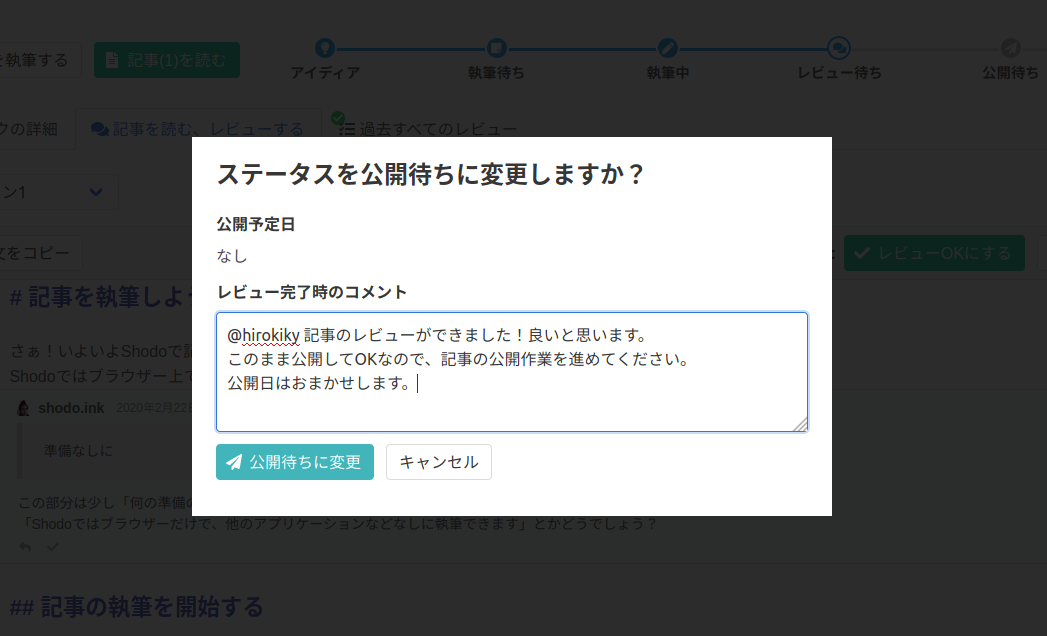
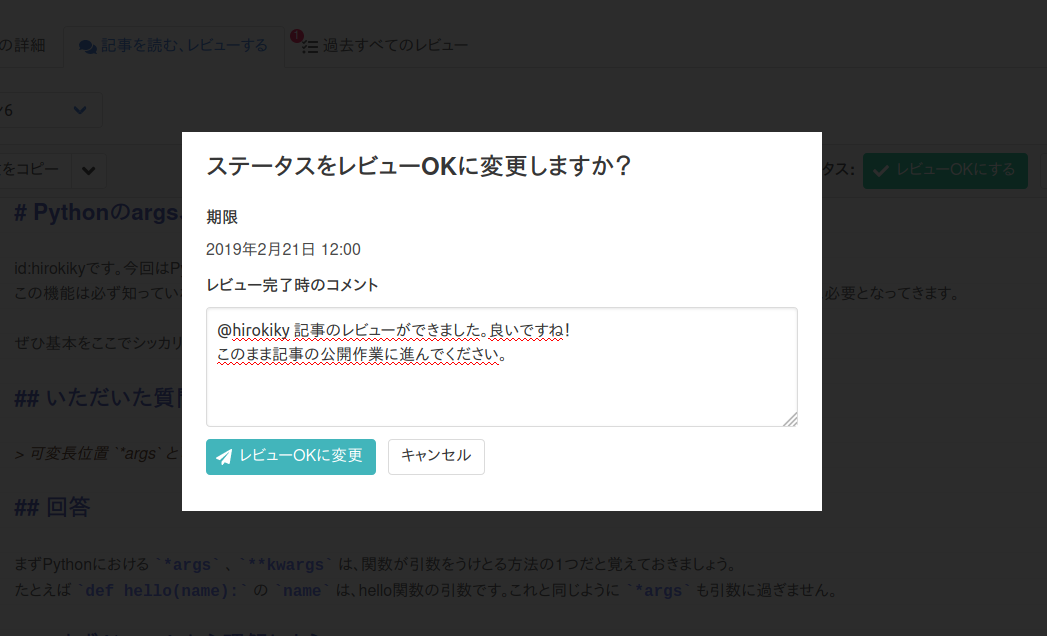
Publish schedule to Due date.

diff --git a/docs/searchindex.js b/docs/searchindex.js
@@ -1,1 +1,1 @@
-Search.setIndex({docnames:["getting-started/create-a-task","getting-started/index","getting-started/make-it-done","getting-started/manage-status","getting-started/review-a-post","getting-started/rewrite-post","getting-started/write-a-post","index"],envversion:{"sphinx.domains.c":1,"sphinx.domains.changeset":1,"sphinx.domains.citation":1,"sphinx.domains.cpp":1,"sphinx.domains.javascript":1,"sphinx.domains.math":2,"sphinx.domains.python":1,"sphinx.domains.rst":1,"sphinx.domains.std":1,sphinx:56},filenames:["getting-started/create-a-task.md","getting-started/index.rst","getting-started/make-it-done.md","getting-started/manage-status.md","getting-started/review-a-post.md","getting-started/rewrite-post.md","getting-started/write-a-post.md","index.rst"],objects:{},objnames:{},objtypes:{},terms:{"(\"":6,"**":6,"\")":6,"\u3001\u300c":[0,4,6],"\u300c\u304a\u4f1a\u3044":0,"\u300c\u3053\u306e":6,"\u300c\u3069":4,"\u300c\u307e\u3060":6,"\u300c\u3088\u3057":6,"\u300c\u30a4\u30d9\u30f3\u30c8":0,"\u300c\u4f55":0,"\u300d\u300c":4,"\u3042\u3048":3,"\u3042\u3052\u308b":4,"\u3042\u3068":[0,2,3,4,5],"\u3042\u308a":[2,3,4,5,6],"\u3042\u308b":[0,1,2,4,5,6],"\u3042\u308c":0,"\u3042\u308d":4,"\u3044\u304b":0,"\u3044\u304d":[0,5],"\u3044\u304f":6,"\u3044\u3056":0,"\u3044\u3088\u3044":6,"\u3044\u308b":[3,4,5,6],"\u3044\u308c":3,"\u304a\u304d\u307e\u3057\u3087":[2,4,5,6],"\u304a\u304f":[0,4],"\u304a\u3051\u308b":0,"\u304a\u4f1d\u3048":4,"\u304a\u75b2\u308c":2,"\u304a\u77e5\u3089":[0,6],"\u304a\u77e5\u3089\u305b":0,"\u304b\u304c":4,"\u304b\u3069":6,"\u304b\u3082":0,"\u304b\u3089":[0,2,3,4,5,6],"\u304c\u3061":[0,4],"\u304c\u308a":0,"\u304f\u3060":[0,2,3,4,5,6],"\u304f\u3066":5,"\u304f\u308c":5,"\u304f\u308c\u308b":3,"\u3051\u3069":6,"\u3053\u3046":3,"\u3053\u3053":[4,5,6],"\u3053\u3068":[0,2,3,4,5,6],"\u3053\u306e":[0,3,4,5],"\u3053\u308c":[2,3,5,6],"\u3053\u3093":[0,6],"\u3053\u3093\u306a":0,"\u3055\u3041":0,"\u3055\u3044":[0,2,3,4,5,6],"\u3055\u3063\u305d\u304f":0,"\u3055\u3089\u306b":5,"\u3055\u3093":[0,4],"\u3057\u3063\u304b\u308a":0,"\u3057\u3064\u3064":[5,6],"\u3057\u3066":[0,3,4,5],"\u3057\u306a\u304f":0,"\u3057\u307e\u3044":[0,4],"\u3057\u307e\u3046":[0,3],"\u3057\u307e\u3057\u3087":[2,3,4,5,6],"\u3057\u307e\u3063":0,"\u3057\u3084\u3059\u3044":2,"\u3057\u3088":4,"\u3057\u3088\u3046":[1,7],"\u3057\u308c":0,"\u3058\u3063\u304f\u308a":4,"\u3059\u3050":0,"\u3059\u3079":1,"\u3059\u3079\u3066":5,"\u3059\u308b":[0,1,3,7],"\u3059\u308c":[2,4],"\u305b\u305a":5,"\u305b\u308b":4,"\u305c\u3072":2,"\u305c\u3072\u304a\u697d\u3057\u307f":0,"\u305d\u3046":4,"\u305d\u3053\u304b\u3089":6,"\u305d\u306e":[2,4,5],"\u305d\u306e\u307e\u307e":6,"\u305d\u308c":[0,3],"\u305d\u308c\u305e\u308c":[0,6],"\u305f\u3044":[0,1,4,5,6],"\u305f\u3044\u304b":0,"\u305f\u304f":[4,6],"\u305f\u3051\u3069":3,"\u305f\u307b\u3046":4,"\u305f\u3081":[0,2],"\u305f\u3089":[1,2,3,4,5],"\u305f\u308a":[0,4],"\u3060\u3051":[0,4],"\u3060\u3055\u3044":[0,2,5],"\u3060\u308d":0,"\u3061\u3087\u3063\u3068":0,"\u3064\u3044":[2,3],"\u3067\u304d":[2,3,4,5,6],"\u3067\u304d\u308b":[0,3,4],"\u3067\u304d\u308c":[4,5],"\u3067\u3057":2,"\u3067\u3057\u3087":[0,2,3,4,6],"\u3067\u3059":[0,2,3,4,5,6],"\u3067\u3082":6,"\u3068\u3044\u3046":[0,3,4,6],"\u3068\u3044\u3063":[0,4],"\u3068\u3048":[0,4,5],"\u3068\u3048\u3070":0,"\u3068\u304d":[0,1,2,4,5,6],"\u3068\u304f":[0,5],"\u3068\u3057":3,"\u3068\u3057\u3066":[0,2,3,4,6],"\u3068\u3057\u307e\u3057\u3087":4,"\u3068\u3066":4,"\u3068\u3088\u308a":4,"\u3068\u308a":[3,4],"\u3069\u3046":[1,4],"\u3069\u3046\u3044\u3046":4,"\u3069\u3053":4,"\u3069\u308c\u304f\u3089\u3044":4,"\u3069\u3093\u306a":0,"\u306a\u3044":[0,1,3,4,6],"\u306a\u304f":[0,3,4],"\u306a\u3051\u308c":2,"\u306a\u3057":[4,6],"\u306a\u305c":[1,3,6],"\u306a\u305d\u3046":4,"\u306a\u3063":[0,1,2,3],"\u306a\u3068":0,"\u306a\u3069":[0,2,3,4,5,6],"\u306a\u306b":4,"\u306a\u308a":[0,3,4,6],"\u306a\u308b":[0,2,3,4,5],"\u306a\u3093":6,"\u306b\u304f\u3044":4,"\u306b\u304f\u304f":0,"\u306b\u3061":[0,6],"\u306b\u3064\u3044\u3066":[0,3,4,5],"\u306b\u3088\u3063":4,"\u306b\u5bfe\u3057":4,"\u306e\u3044\u308d\u3044\u308d":6,"\u306e\u3067":[0,2,3,5,6],"\u306e\u3067\u3057\u3087":[0,3],"\u306f\u3058\u3081\u3066":6,"\u306f\u3066":6,"\u3079\u304d":[0,3,4,5],"\u3079\u304f":2,"\u307b\u3046":[2,4],"\u307b\u3057\u3044":[0,3,4],"\u307b\u3057\u3044\u304b":4,"\u307c\u3093":4,"\u307e\u3057":2,"\u307e\u3057\u3087":[0,4,5],"\u307e\u3059":[0,2,3,4,5,6],"\u307e\u305a":[0,3,5,6],"\u307e\u305b":[0,2,3,4,5,6],"\u307e\u3060":[0,3,6],"\u307e\u3067":0,"\u307e\u3068\u3081":[0,6],"\u307e\u3068\u3081\u308b":0,"\u307e\u307e":[2,5],"\u307e\u307e\u3067":6,"\u3082\u3057":[2,3],"\u3082\u3057\u5358":0,"\u3082\u3068":[1,7],"\u3082\u3069\u3063":2,"\u3082\u306e":[0,4],"\u3082\u3089\u3044":5,"\u3082\u3089\u3044\u307e\u3057\u3087":5,"\u3082\u3089\u3046":0,"\u3082\u3089\u3063":[3,5],"\u3084\u3059\u3044":[4,6],"\u3084\u3059\u304f":4,"\u3084\u306f\u308a":2,"\u3084\u308a":[2,4],"\u3086\u308c":6,"\u3088\u3044":[],"\u3088\u3046":[0,4,7],"\u3088\u308a":[3,4],"\u3089\u3057\u3044":4,"\u3089\u308c":[0,4,5,6],"\u308c\u308b":[0,4,5],"\u308f\u304b\u308a":4,"\u3092\u901a\u3057":4,"\u30a2\u30a4\u30b3\u30f3":[4,5],"\u30a2\u30a4\u30c7\u30a3\u30a2":[0,3],"\u30a2\u30ab\u30a6\u30f3\u30c8":4,"\u30a2\u30af\u30b7\u30e7\u30f3":[0,4,6],"\u30a2\u30b5\u30a4\u30f3":[0,3,4],"\u30a2\u30c3\u30d7\u30ed\u30fc\u30c9":6,"\u30a2\u30d7\u30ea":0,"\u30a2\u30d7\u30ea\u30b1\u30fc\u30b7\u30e7\u30f3":4,"\u30a4\u30d9\u30f3\u30c8":0,"\u30a4\u30e1\u30fc\u30b8":4,"\u30a8\u30c7\u30a3\u30bf\u30fc":[5,6],"\u30aa\u30a6\u30f3\u30c9\u30e1\u30c7\u30a3\u30a2":2,"\u30aa\u30b9\u30b9\u30e1":[0,2,5,6],"\u30ab\u30fc\u30bd\u30eb":4,"\u30ac\u30a4\u30c9\u30e9\u30a4\u30f3":3,"\u30ad\u30c1\u30f3":4,"\u30ad\u30e3\u30c3\u30c1\u30fc":0,"\u30af\u30ea\u30c3\u30af":[0,2,3,4,5,6],"\u30b3\u30d4\u30fc":[1,4],"\u30b3\u30e1\u30f3\u30c8":[0,4,5],"\u30b3\u30f3\u30c6\u30f3\u30c4\u30de\u30fc\u30b1\u30c6\u30a3\u30f3\u30b0":0,"\u30b3\u30fc\u30c7\u30a3\u30f3\u30b0":2,"\u30b3\u30fc\u30c9":6,"\u30b5\u30a4\u30c9\u30d0\u30fc":[0,1,5],"\u30b5\u30b8\u30a7\u30b9\u30c8":3,"\u30b5\u30fc\u30d3\u30b9":[0,2],"\u30b7\u30f3\u30bf\u30c3\u30af\u30b9":6,"\u30b9\u30af\u30ed\u30fc\u30eb":5,"\u30b9\u30c6\u30fc\u30bf\u30b9":[0,1,2,4,5,6,7],"\u30b9\u30e0\u30fc\u30ba":4,"\u30bf\u30a4\u30c8\u30eb":0,"\u30bf\u30b9\u30af":[1,3,4,5,6,7],"\u30bf\u30d6":4,"\u30bf\u30fc\u30b2\u30c3\u30c8":0,"\u30c0\u30c3\u30b7\u30e5\u30dc\u30fc\u30c9":[0,6],"\u30c1\u30a7\u30c3\u30af":4,"\u30c1\u30a7\u30c3\u30af\u30a2\u30a4\u30b3\u30f3":5,"\u30c1\u30fc\u30e0\u30e1\u30f3\u30d0\u30fc":6,"\u30c4\u30fc\u30eb\u30d0\u30fc":6,"\u30c7\u30b6\u30a4\u30f3":2,"\u30c8\u30e9\u30d6\u30eb":3,"\u30cf\u30a4\u30e9\u30a4\u30c8":5,"\u30d0\u30fc\u30b8\u30e7\u30f3":[0,5,6],"\u30d1\u30e9\u30b0\u30e9\u30d5":2,"\u30d5\u30a3\u30fc\u30c9\u30d0\u30c3\u30af":4,"\u30d5\u30a9\u30eb\u30c0\u30fc":0,"\u30d5\u30a9\u30ed\u30fc":0,"\u30d5\u30a9\u30fc\u30de\u30c3\u30c8":1,"\u30d5\u30ed\u30fc":3,"\u30d6\u30e9\u30a6\u30b6\u30fc":[4,6],"\u30d6\u30e9\u30b7\u30e5\u30a2\u30c3\u30d7":5,"\u30d6\u30ec":0,"\u30d6\u30ed\u30b0":[0,2,6],"\u30d6\u30ed\u30b0\u30b5\u30fc\u30d3\u30b9":[2,3],"\u30d7\u30e9\u30b0\u30a4\u30f3":6,"\u30d7\u30e9\u30c3\u30c8\u30d5\u30a9\u30fc\u30e0":[2,3],"\u30d7\u30ec\u30fc\u30f3\u30c6\u30ad\u30b9\u30c8":6,"\u30d7\u30ed\u30b8\u30a7\u30af\u30c8":0,"\u30da\u30fc\u30b8":[0,2,6],"\u30da\u30fc\u30b9\u30c8":[2,4],"\u30dc\u30bf\u30f3":[3,4,5,6],"\u30dd\u30a4\u30f3\u30c8":[0,1],"\u30de\u30fc\u30b1\u30bf\u30fc":0,"\u30e6\u30fc\u30b6\u30fc":0,"\u30ea\u30b9\u30c8":6,"\u30ea\u30ea\u30fc\u30b9":6,"\u30eb\u30fc\u30eb":6,"\u30ec\u30d3\u30e5\u30a2\u30fc":[0,3,4,5,6],"\u30ec\u30d3\u30e5\u30fc":[0,1,2,6,7],"\u30ec\u30d3\u30e5\u30fc\u30b3\u30e1\u30f3\u30c8":[1,3],"\u30ec\u30d3\u30e5\u30fc\u30b9\u30c6\u30fc\u30bf\u30b9":0,"\u30ec\u30d3\u30e5\u30fc\u30ec\u30d3\u30e5\u30a2\u30fc":6,"\u30ec\u30d3\u30e5\u30fcok":[3,4],"\u30ef\u30af\u30ef\u30af":[0,4],"\u30ef\u30f3\u30dd\u30a4\u30f3\u30c8":4,"\u30ef\u30fc\u30af\u30d5\u30ed\u30fc":1,"\u30fbmarkdown":6,"\u4e00\u4eba":4,"\u4e00\u65e6":[3,6],"\u4e00\u756a":4,"\u4e00\u89a7":[5,6],"\u4e0a\u8a18":5,"\u4e0a\u90e8":6,"\u4e0b\u90e8":5,"\u4e0d\u8981":4,"\u4e16\u754c":2,"\u4e21\u65b9":1,"\u4e2d\u592e":6,"\u4e2d\u8a18":3,"\u4e88\u5b9a":[0,4],"\u4e88\u7d04":3,"\u4e8b\u524d":0,"\u4e8b\u52d9":0,"\u4eca\u5f8c":[0,4],"\u4ed5\u4e0a":0,"\u4ed5\u4e8b":[0,3],"\u4ee5\u4e0b":[0,3,4,5,6],"\u4ee5\u5916":3,"\u4f11\u61a9":6,"\u4f1d\u3048":[0,4,6],"\u4f1d\u3048\u308b":1,"\u4f1d\u308f\u3089":4,"\u4f1d\u308f\u308a":4,"\u4f1d\u308f\u308b":4,"\u4f4d\u7f6e":5,"\u4f55\u304b":0,"\u4f59\u8a08":3,"\u4f5c\u3063":2,"\u4f5c\u308a":[0,4],"\u4f5c\u308a\u4e0a\u3052":4,"\u4f5c\u308a\u65b9":1,"\u4f5c\u308b":[1,3],"\u4f5c\u308d":[1,7],"\u4f5c\u54c1":4,"\u4f5c\u6210":[0,3,5,6],"\u4f5c\u696d":[2,3,4,6],"\u4f7f\u3048":6,"\u4f7f\u3048\u308b":1,"\u4f7f\u308f\u305a":4,"\u4f9d\u983c":[0,1,3,4,6],"\u4fbf\u5229":[2,5],"\u4fdd\u5b58":6,"\u4fee\u6b63":[1,3,4,7],"\u5148\u9032":0,"\u5165\u308b":2,"\u5165\u529b":[0,4,6],"\u5168\u4f53":4,"\u516c\u958b":[0,1,4,5,7],"\u516c\u958b\u5f85\u3061":4,"\u5171\u6709":[4,6],"\u5177\u4f53":[1,3],"\u5185\u5bb9":[0,2,4,5,6],"\u518d\u5ea6":[4,5],"\u5206\u304b\u3063":0,"\u5206\u3051":3,"\u5206\u6790":6,"\u5229\u7528":[2,6],"\u5247\u3063":3,"\u52b9\u679c":0,"\u52d5\u304b\u3059":4,"\u5358\u7d14":5,"\u5358\u8a9e":6,"\u5370\u8c61":4,"\u5374\u4e0b":3,"\u539f\u7a3f":2,"\u53d6\u3063":[0,4],"\u53d6\u3089\u308c":3,"\u53d6\u308a":4,"\u53f3\u4e0a":[4,5,6],"\u5404\u884c":4,"\u5404\u914d":2,"\u5408\u308f":4,"\u544a\u77e5":0,"\u5546\u54c1":4,"\u554f\u984c":[0,3,4,5],"\u57f7\u7b46":[1,4,5,7],"\u57f7\u7b46\u4e2d":4,"\u57fa\u672c":3,"\u5834\u5408":[0,1,2,3,6],"\u5909\u3048":[5,6],"\u5909\u308f\u3063":0,"\u5909\u63db":6,"\u5909\u66f4":[2,3,4,5,6],"\u591a\u3044":2,"\u5927\u304d":2,"\u5927\u304d\u304f":0,"\u5927\u304d\u306a":2,"\u5927\u307e\u304b":0,"\u5927\u5207":4,"\u592a\u5b57":6,"\u59cb\u3081":[0,7],"\u59cb\u3081\u308b":0,"\u59ff\u52e2":4,"\u5b58\u5728":0,"\u5b8c\u4e86":[1,3,5,7],"\u5b8c\u6210":[0,2,6],"\u5b9f\u969b":[3,4],"\u5bfe\u5fdc":[1,6],"\u5bfe\u8c61":[1,5],"\u5c0e\u5165":6,"\u5c11\u3005":4,"\u5c11\u3057":2,"\u5c11\u306a\u3044":2,"\u5dee\u3057\u623b\u3059":[1,3],"\u5f0a\u793e":0,"\u5f15\u7528":6,"\u5f53\u65e5":0,"\u5f53\u8a72":3,"\u5f62\u5f0f":[2,4,6],"\u5f79\u5272":0,"\u5f85\u3061":[0,3,4,5],"\u5f85\u3063":[0,3],"\u5f8c\u307b\u3069":4,"\u5f8c\u8ff0":[0,5],"\u5fc5\u8981":[2,4,5,6],"\u5fd8\u308c":4,"\u601d\u3044":[3,4],"\u601d\u3044\u3064\u3044":3,"\u601d\u3046":4,"\u601d\u3063":0,"\u601d\u308f":0,"\u60a9\u3093":0,"\u60aa\u3044\u70b9":1,"\u60aa\u3044\u70b9\u3070\u304b\u308a":4,"\u60c5\u5831":0,"\u60f3\u5b9a":0,"\u610f\u5473":[0,3,5],"\u610f\u898b":5,"\u611f\u3058":4,"\u611f\u3058\u308b":4,"\u623b\u3059":4,"\u624b\u52d5":[3,5],"\u624b\u623b\u308a":2,"\u6295\u7a3f":[3,5],"\u62c5\u5f53\u8005":0,"\u62db\u304d":4,"\u6301\u3063":4,"\u6307\u6458":1,"\u6349\u3048":5,"\u63b4\u3081":4,"\u63d0\u6848":4,"\u6539\u5584":[4,5],"\u6587\u5b57":6,"\u6587\u7ae0":[0,2,4,5,6],"\u6587\u8a00":2,"\u659c\u3081":6,"\u65b0\u3057\u3044":[0,5],"\u65b0\u898f\u30bf\u30b9\u30af":0,"\u65b9\u6cd5":[4,5,6],"\u65e5\u6642":0,"\u660e\u793a":4,"\u6642\u9593":[0,3,4,6],"\u66f8\u3044":[0,2,3,4,6],"\u66f8\u304b":[0,3],"\u66f8\u304b\u305a":0,"\u66f8\u304d":[0,1,4,6],"\u66f8\u304d\u4e0a\u304c\u3063":4,"\u66f8\u304d\u76f4\u3057":4,"\u66f8\u304d\u7d42\u308f\u3063":4,"\u66f8\u304f":[0,1,2,3,6],"\u66f8\u3051":[0,1,4],"\u66f8\u3051\u308b":[0,4],"\u66f8\u3053\u3046":0,"\u6700\u3082":0,"\u6700\u65b0":4,"\u6700\u7d42":[2,4],"\u6709\u52b9":6,"\u672a\u89e3":5,"\u672c\u5f53":4,"\u672c\u6587":[1,5],"\u6821\u6b63":[2,4,6],"\u697d\u3057\u304f":0,"\u697d\u3057\u307f":0,"\u6a5f\u80fd":6,"\u6b32\u3057\u3044":0,"\u6b8b\u3057":[4,5],"\u6b8b\u3057\u3064\u3064":4,"\u6b8b\u3059":1,"\u6b8b\u305b":4,"\u6b8b\u3063":5,"\u6bb5\u968e":[2,4,6],"\u6bd4\u7387":6,"\u6c17\u3065\u3051":[4,5],"\u6c17\u4ed8\u3051\u308b":5,"\u6c17\u517c":3,"\u6c17\u6301\u3061":1,"\u6c42\u3081\u308b":[4,6],"\u6c7a\u307e\u3063":3,"\u6c7a\u307e\u308c":3,"\u6c7a\u5b9a":0,"\u6ce8\u529b":[2,4],"\u6de1\u767d":0,"\u6df7\u4e71":4,"\u6e1b\u3089":4,"\u6e29\u5ea6":0,"\u6e96\u5099":[4,6],"\u7121\u99c4":[0,2],"\u7169\u96d1":3,"\u7279\u306b":3,"\u7279\u5316":6,"\u7279\u5fb4":6,"\u72b6\u614b":[0,3,5,6],"\u73fe\u5728":6,"\u753b\u50cf":6,"\u753b\u9762":[0,2,3,4,5,6],"\u76f4\u3057":2,"\u76f4\u305b":4,"\u76f8\u624b":4,"\u77e2\u5370":5,"\u77e5\u3063":0,"\u78ba\u8a8d":[4,5,6],"\u79fb\u3057":3,"\u7a4d\u6975":4,"\u7b2c\u4e00\u6b69":0,"\u7ba1\u7406":[0,1,7],"\u7bc4\u56f2":1,"\u7c21\u5358":3,"\u7d0d\u5f97":[4,5],"\u7d20\u6674":4,"\u7d42\u308f":0,"\u7d42\u308f\u3063":[1,6],"\u7d42\u4e86":2,"\u7d50\u679c":6,"\u7d5e\u3089":4,"\u8003\u3048\u308b":0,"\u805e\u304f":6,"\u80cc\u666f":6,"\u81a8\u3089":6,"\u81ea\u52d5":[5,6],"\u826f\u3044":[0,2,3,4,6],"\u826f\u3044\u4f8b":4,"\u826f\u3044\u70b9":1,"\u826f\u304b\u3063":4,"\u826f\u304f":4,"\u884c\u3044":0,"\u884c\u3048":0,"\u884c\u304d":[0,4],"\u884c\u3063":2,"\u8868\u73fe":4,"\u8868\u793a":[0,4,5,6],"\u8868\u8a18":6,"\u8981\u7d20":[0,6],"\u898b\u3064\u3051":4,"\u898b\u3064\u3051\u3088":4,"\u898b\u3084\u3059\u304f":5,"\u898b\u3089\u308c":6,"\u898b\u3089\u308c\u308b":4,"\u898b\u308b":5,"\u898b\u51fa":6,"\u898b\u51fa\u3057":6,"\u89aa\u5207":4,"\u89b3\u70b9":4,"\u89e3\u6c7a":1,"\u8a00\u3044":4,"\u8a00\u8449":0,"\u8a18\u4e8b":[0,1,7],"\u8a18\u5165":5,"\u8a18\u6cd5":6,"\u8a18\u9332":5,"\u8a2d\u5b9a":6,"\u8a66\u3057":6,"\u8a70\u3081":2,"\u8a72\u5f53\u884c":5,"\u8a73\u3057\u304f":[0,3],"\u8a73\u7d30":[2,3,6],"\u8aa4\u5b57":4,"\u8aac\u660e":[0,1,3,4,5],"\u8aad\u307e":4,"\u8aad\u307f":6,"\u8aad\u307f\u624b":4,"\u8aad\u3080":[0,1],"\u8aad\u3093":[0,4,5],"\u8aad\u4e86":6,"\u8aad\u8005":[0,1],"\u8abf\u6574":2,"\u8cbc\u308a\u4ed8\u3051":[2,6],"\u8cfc\u5165":4,"\u8cfc\u8aad":0,"\u8fd1\u3044":0,"\u8fd4\u3055":4,"\u8fd4\u4fe1":1,"\u8fd4\u7b54":5,"\u8ffd\u52a0":[0,4],"\u9001\u4fe1":5,"\u9010\u6b21":[2,6],"\u9032\u3080":4,"\u9032\u3081\u308b":3,"\u9032\u3081\u308c":3,"\u904e\u53bb":5,"\u9055\u3046":0,"\u9055\u3063":5,"\u9078\u3073":4,"\u9078\u3076":3,"\u907f\u3051":0,"\u90e8\u5206":[4,6],"\u90fd\u5ea6":2,"\u914d\u4fe1":3,"\u914d\u7f6e":2,"\u958b\u3044":[4,5],"\u958b\u50ac":0,"\u958b\u59cb":1,"\u9593\u9055\u3044":4,"\u95b2\u89a7":[4,5],"\u9632\u3050":0,"\u96c6\u4e2d":3,"\u9762\u5012":4,"\u98db\u3073\u51fa\u3057":2,"\uff01\u300d":0,"\uff01\u3044":[],"\uff1f\u300d":0,"ng\u4f8b":4,hello:6,html:6,markdown:[2,4,6],ok:[1,2,3],print:6,shodo:[0,3,4],twitter:0,web:[2,3],wordpress:[2,3],wordpross:6},titles:["\u57f7\u7b46\u30bf\u30b9\u30af\u3092\u4f5c\u308d\u3046","Shodo\u3067\u59cb\u3081\u3088\u3046","\u8a18\u4e8b\u3092\u516c\u958b\u3057\u3066\u57f7\u7b46\u30bf\u30b9\u30af\u3092\u5b8c\u4e86\u306b\u3057\u3088\u3046","\u30b9\u30c6\u30fc\u30bf\u30b9\u3092\u7ba1\u7406\u3057\u3088\u3046","\u30ec\u30d3\u30e5\u30fc\u3092\u3057\u3088\u3046","\u30ec\u30d3\u30e5\u30fc\u3092\u3082\u3068\u306b\u8a18\u4e8b\u3092\u4fee\u6b63\u3059\u308b","\u8a18\u4e8b\u3092\u57f7\u7b46\u3057\u3088\u3046","Shodo.ink \u30d8\u30eb\u30d7\u30c9\u30ad\u30e5\u30e1\u30f3\u30c8"],titleterms:{".ink":7,"\u3042\u308b":3,"\u3057\u3088\u3046":[2,4],"\u3059\u3079":5,"\u3059\u308b":[2,4,5,6],"\u305f\u3044":3,"\u305f\u3089":6,"\u3068\u304d":3,"\u3069\u3046":6,"\u306a\u3044":5,"\u306a\u305c":0,"\u306a\u3063":[4,5],"\u3082\u3068":5,"\u3088\u3046":[1,3,5,6],"\u30b3\u30d4\u30fc":2,"\u30b5\u30a4\u30c9\u30d0\u30fc":6,"\u30b9\u30c6\u30fc\u30bf\u30b9":3,"\u30bf\u30b9\u30af":[0,2],"\u30d5\u30a9\u30fc\u30de\u30c3\u30c8":6,"\u30d8\u30eb\u30d7\u30c9\u30ad\u30e5\u30e1\u30f3\u30c8":7,"\u30dd\u30a4\u30f3\u30c8":4,"\u30ec\u30d3\u30e5\u30fc":[3,4,5],"\u30ec\u30d3\u30e5\u30fc\u30b3\u30e1\u30f3\u30c8":[4,5],"\u30ef\u30fc\u30af\u30d5\u30ed\u30fc":3,"\u4e21\u65b9":4,"\u4f1d\u3048\u308b":4,"\u4f5c\u308a\u65b9":0,"\u4f5c\u308b":0,"\u4f5c\u308d":0,"\u4f7f\u3048\u308b":6,"\u4f9d\u983c":5,"\u4fee\u6b63":[2,5],"\u516c\u958b":[2,3],"\u5177\u4f53":4,"\u57f7\u7b46":[0,2,3,6],"\u5834\u5408":[4,5],"\u59cb\u3081":1,"\u5b8c\u4e86":2,"\u5bfe\u5fdc":5,"\u5bfe\u8c61":4,"\u5dee\u3057\u623b\u3059":4,"\u60aa\u3044\u70b9":4,"\u6307\u6458":4,"\u66f8\u304d":3,"\u66f8\u304f":4,"\u66f8\u3051":6,"\u672c\u6587":2,"\u6b8b\u3059":4,"\u6c17\u6301\u3061":4,"\u7ba1\u7406":3,"\u7bc4\u56f2":2,"\u7d42\u308f\u3063":[3,4],"\u826f\u3044\u70b9":4,"\u89e3\u6c7a":5,"\u8a18\u4e8b":[2,3,4,5,6],"\u8aac\u660e":6,"\u8aad\u3080":4,"\u8aad\u8005":4,"\u8fd4\u4fe1":5,"\u958b\u59cb":6,ok:4,shodo:[1,2,6,7]}})
+Search.setIndex({docnames:["getting-started/create-a-task","getting-started/index","getting-started/make-it-done","getting-started/manage-status","getting-started/review-a-post","getting-started/rewrite-post","getting-started/write-a-post","index"],envversion:{"sphinx.domains.c":1,"sphinx.domains.changeset":1,"sphinx.domains.citation":1,"sphinx.domains.cpp":1,"sphinx.domains.javascript":1,"sphinx.domains.math":2,"sphinx.domains.python":1,"sphinx.domains.rst":1,"sphinx.domains.std":1,sphinx:56},filenames:["getting-started/create-a-task.md","getting-started/index.rst","getting-started/make-it-done.md","getting-started/manage-status.md","getting-started/review-a-post.md","getting-started/rewrite-post.md","getting-started/write-a-post.md","index.rst"],objects:{},objnames:{},objtypes:{},terms:{"(\"":6,"**":6,"\")":6,"\u3001\u300c":[0,4,6],"\u300c\u304a\u4f1a\u3044":0,"\u300c\u3053\u306e":6,"\u300c\u3069":4,"\u300c\u307e\u3060":6,"\u300c\u3088\u3057":6,"\u300c\u30a4\u30d9\u30f3\u30c8":0,"\u300c\u4f55":0,"\u300d\u300c":4,"\u3042\u3048":3,"\u3042\u3052\u308b":4,"\u3042\u3068":[0,2,3,4,5],"\u3042\u308a":[2,3,4,5,6],"\u3042\u308b":[0,1,2,4,5,6],"\u3042\u308c":0,"\u3042\u308d":4,"\u3044\u304b":0,"\u3044\u304d":[0,5],"\u3044\u304f":6,"\u3044\u3056":0,"\u3044\u3088\u3044":6,"\u3044\u308b":[3,4,5,6],"\u3044\u308c":3,"\u304a\u304d\u307e\u3057\u3087":[2,4,5,6],"\u304a\u304f":[0,4],"\u304a\u3051\u308b":0,"\u304a\u4f1d\u3048":4,"\u304a\u75b2\u308c":2,"\u304a\u77e5\u3089":[0,6],"\u304a\u77e5\u3089\u305b":0,"\u304b\u304c":4,"\u304b\u3069":6,"\u304b\u3082":0,"\u304b\u3089":[0,2,3,4,5,6],"\u304c\u3061":[0,4],"\u304c\u308a":0,"\u304f\u3060":[0,2,3,4,5,6],"\u304f\u3066":5,"\u304f\u308c":5,"\u304f\u308c\u308b":3,"\u3051\u3069":6,"\u3053\u3046":3,"\u3053\u3053":[4,5,6],"\u3053\u3068":[0,2,3,4,5,6],"\u3053\u306e":[0,3,4,5],"\u3053\u308c":[2,3,5,6],"\u3053\u3093":[0,6],"\u3053\u3093\u306a":0,"\u3055\u3041":0,"\u3055\u3044":[0,2,3,4,5,6],"\u3055\u3063\u305d\u304f":0,"\u3055\u3089\u306b":5,"\u3055\u3093":[0,4],"\u3057\u3063\u304b\u308a":0,"\u3057\u3064\u3064":[5,6],"\u3057\u3066":[0,3,4,5],"\u3057\u306a\u304f":0,"\u3057\u307e\u3044":[0,4],"\u3057\u307e\u3046":[0,3],"\u3057\u307e\u3057\u3087":[2,3,4,5,6],"\u3057\u307e\u3063":0,"\u3057\u3084\u3059\u3044":2,"\u3057\u3088":4,"\u3057\u3088\u3046":[1,7],"\u3057\u308c":0,"\u3058\u3063\u304f\u308a":4,"\u3059\u3050":0,"\u3059\u3079":1,"\u3059\u3079\u3066":5,"\u3059\u308b":[0,1,3,7],"\u3059\u308c":[2,4],"\u305b\u305a":5,"\u305b\u308b":4,"\u305c\u3072":2,"\u305c\u3072\u304a\u697d\u3057\u307f":0,"\u305d\u3046":4,"\u305d\u3053\u304b\u3089":6,"\u305d\u306e":[2,4,5],"\u305d\u306e\u307e\u307e":6,"\u305d\u308c":[0,3],"\u305d\u308c\u305e\u308c":[0,6],"\u305f\u3044":[0,1,4,5,6],"\u305f\u3044\u304b":0,"\u305f\u304f":[4,6],"\u305f\u3051\u3069":3,"\u305f\u307b\u3046":4,"\u305f\u3081":[0,2],"\u305f\u3089":[1,2,3,4,5],"\u305f\u308a":[0,4],"\u3060\u3051":[0,4],"\u3060\u3055\u3044":[0,2,5],"\u3060\u308d":0,"\u3061\u3087\u3063\u3068":0,"\u3064\u3044":[2,3],"\u3067\u304d":[2,3,4,5,6],"\u3067\u304d\u308b":[0,3,4],"\u3067\u304d\u308c":[4,5],"\u3067\u3057":2,"\u3067\u3057\u3087":[0,2,3,4,6],"\u3067\u3059":[0,2,3,4,5,6],"\u3067\u3082":[3,6],"\u3068\u3044\u3046":[0,3,4,6],"\u3068\u3044\u3063":[0,4],"\u3068\u3048":[0,4,5],"\u3068\u3048\u3070":0,"\u3068\u304d":[0,1,2,4,5,6],"\u3068\u304f":[0,5],"\u3068\u3057":3,"\u3068\u3057\u3066":[0,2,3,4,6],"\u3068\u3057\u307e\u3057\u3087":4,"\u3068\u3066":4,"\u3068\u3088\u308a":4,"\u3068\u308a":[3,4],"\u3069\u3046":[1,4],"\u3069\u3046\u3044\u3046":4,"\u3069\u3053":4,"\u3069\u308c\u304f\u3089\u3044":4,"\u3069\u3093\u306a":0,"\u306a\u3044":[0,1,3,4,6],"\u306a\u304f":[0,3,4],"\u306a\u3051\u308c":2,"\u306a\u3057":[4,6],"\u306a\u305c":[1,3,6],"\u306a\u305d\u3046":4,"\u306a\u3063":[0,1,2,3],"\u306a\u3068":0,"\u306a\u3069":[0,2,3,4,5,6],"\u306a\u306b":4,"\u306a\u308a":[0,3,4,6],"\u306a\u308b":[0,2,3,4,5],"\u306a\u3093":6,"\u306b\u304f\u3044":4,"\u306b\u304f\u304f":0,"\u306b\u3061":[0,6],"\u306b\u3064\u3044\u3066":[0,3,4,5],"\u306b\u3088\u3063":4,"\u306b\u5bfe\u3057":4,"\u306e\u3044\u308d\u3044\u308d":6,"\u306e\u3067":[0,2,3,5,6],"\u306e\u3067\u3057\u3087":[0,3],"\u306f\u3058\u3081\u3066":6,"\u306f\u3066":6,"\u3079\u304d":[0,3,4,5],"\u3079\u304f":2,"\u307b\u3046":[2,4],"\u307b\u3057\u3044":[0,3,4],"\u307b\u3057\u3044\u304b":4,"\u307c\u3093":4,"\u307e\u3057":2,"\u307e\u3057\u3087":[0,4,5],"\u307e\u3059":[0,2,3,4,5,6],"\u307e\u305a":[0,3,5,6],"\u307e\u305b":[0,2,3,4,5,6],"\u307e\u3060":[0,3,6],"\u307e\u3067":0,"\u307e\u3068\u3081":[0,6],"\u307e\u3068\u3081\u308b":0,"\u307e\u307e":[2,5],"\u307e\u307e\u3067":6,"\u3082\u3057":[2,3],"\u3082\u3057\u5358":0,"\u3082\u3068":[1,7],"\u3082\u3069\u3063":2,"\u3082\u306e":[0,4],"\u3082\u3089\u3044":5,"\u3082\u3089\u3044\u307e\u3057\u3087":5,"\u3082\u3089\u3046":0,"\u3082\u3089\u3063":[3,5],"\u3084\u3059\u3044":[4,6],"\u3084\u3059\u304f":4,"\u3084\u306f\u308a":2,"\u3084\u308a":[2,4],"\u3086\u308c":6,"\u3088\u3046":[0,4,7],"\u3088\u308a":[3,4],"\u3089\u3057\u3044":4,"\u3089\u308c":[0,4,5,6],"\u308c\u308b":[0,4,5],"\u308f\u304b\u308a":4,"\u3092\u901a\u3057":4,"\u30a2\u30a4\u30b3\u30f3":[4,5],"\u30a2\u30a4\u30c7\u30a3\u30a2":[0,3],"\u30a2\u30ab\u30a6\u30f3\u30c8":4,"\u30a2\u30af\u30b7\u30e7\u30f3":[0,4,6],"\u30a2\u30b5\u30a4\u30f3":[0,3,4],"\u30a2\u30c3\u30d7\u30ed\u30fc\u30c9":6,"\u30a2\u30d7\u30ea":0,"\u30a2\u30d7\u30ea\u30b1\u30fc\u30b7\u30e7\u30f3":4,"\u30a4\u30d9\u30f3\u30c8":0,"\u30a4\u30e1\u30fc\u30b8":4,"\u30a8\u30c7\u30a3\u30bf\u30fc":[5,6],"\u30aa\u30a6\u30f3\u30c9\u30e1\u30c7\u30a3\u30a2":2,"\u30aa\u30b9\u30b9\u30e1":[0,2,5,6],"\u30ab\u30fc\u30bd\u30eb":4,"\u30ac\u30a4\u30c9\u30e9\u30a4\u30f3":3,"\u30ad\u30c1\u30f3":4,"\u30ad\u30e3\u30c3\u30c1\u30fc":0,"\u30af\u30ea\u30c3\u30af":[0,2,3,4,5,6],"\u30b3\u30d4\u30fc":[1,4],"\u30b3\u30e1\u30f3\u30c8":[0,4,5],"\u30b3\u30f3\u30c6\u30f3\u30c4\u30de\u30fc\u30b1\u30c6\u30a3\u30f3\u30b0":0,"\u30b3\u30fc\u30c7\u30a3\u30f3\u30b0":2,"\u30b3\u30fc\u30c9":6,"\u30b5\u30a4\u30c9\u30d0\u30fc":[0,1,5],"\u30b5\u30b8\u30a7\u30b9\u30c8":3,"\u30b5\u30fc\u30d3\u30b9":[0,2],"\u30b7\u30f3\u30bf\u30c3\u30af\u30b9":6,"\u30b9\u30af\u30ed\u30fc\u30eb":5,"\u30b9\u30c6\u30fc\u30bf\u30b9":[0,1,2,4,5,6,7],"\u30b9\u30e0\u30fc\u30ba":4,"\u30bf\u30a4\u30c8\u30eb":0,"\u30bf\u30b9\u30af":[1,3,4,5,6,7],"\u30bf\u30d6":4,"\u30bf\u30fc\u30b2\u30c3\u30c8":0,"\u30c0\u30c3\u30b7\u30e5\u30dc\u30fc\u30c9":[0,6],"\u30c1\u30a7\u30c3\u30af":4,"\u30c1\u30a7\u30c3\u30af\u30a2\u30a4\u30b3\u30f3":5,"\u30c1\u30fc\u30e0\u30e1\u30f3\u30d0\u30fc":6,"\u30c4\u30fc\u30eb\u30d0\u30fc":6,"\u30c7\u30b6\u30a4\u30f3":2,"\u30c8\u30e9\u30d6\u30eb":3,"\u30cf\u30a4\u30e9\u30a4\u30c8":5,"\u30d0\u30fc\u30b8\u30e7\u30f3":[0,5,6],"\u30d1\u30e9\u30b0\u30e9\u30d5":2,"\u30d5\u30a3\u30fc\u30c9\u30d0\u30c3\u30af":4,"\u30d5\u30a9\u30eb\u30c0\u30fc":0,"\u30d5\u30a9\u30ed\u30fc":0,"\u30d5\u30a9\u30fc\u30de\u30c3\u30c8":1,"\u30d5\u30ed\u30fc":3,"\u30d6\u30e9\u30a6\u30b6\u30fc":[4,6],"\u30d6\u30e9\u30b7\u30e5\u30a2\u30c3\u30d7":5,"\u30d6\u30ec":0,"\u30d6\u30ed\u30b0":[0,2,6],"\u30d6\u30ed\u30b0\u30b5\u30fc\u30d3\u30b9":[2,3],"\u30d7\u30e9\u30b0\u30a4\u30f3":6,"\u30d7\u30e9\u30c3\u30c8\u30d5\u30a9\u30fc\u30e0":[2,3],"\u30d7\u30ec\u30fc\u30f3\u30c6\u30ad\u30b9\u30c8":6,"\u30d7\u30ed\u30b8\u30a7\u30af\u30c8":0,"\u30da\u30fc\u30b8":[0,2,6],"\u30da\u30fc\u30b9\u30c8":[2,4],"\u30dc\u30bf\u30f3":[3,4,5,6],"\u30dd\u30a4\u30f3\u30c8":[0,1],"\u30de\u30fc\u30b1\u30bf\u30fc":0,"\u30e6\u30fc\u30b6\u30fc":0,"\u30ea\u30b9\u30c8":6,"\u30ea\u30ea\u30fc\u30b9":6,"\u30eb\u30fc\u30eb":6,"\u30ec\u30d3\u30e5\u30a2\u30fc":[0,3,4,5,6],"\u30ec\u30d3\u30e5\u30fc":[0,1,2,6,7],"\u30ec\u30d3\u30e5\u30fc\u30b3\u30e1\u30f3\u30c8":[1,3],"\u30ec\u30d3\u30e5\u30fc\u30b9\u30c6\u30fc\u30bf\u30b9":0,"\u30ec\u30d3\u30e5\u30fc\u30ec\u30d3\u30e5\u30a2\u30fc":6,"\u30ec\u30d3\u30e5\u30fcok":[3,4,5],"\u30ef\u30af\u30ef\u30af":[0,4],"\u30ef\u30f3\u30dd\u30a4\u30f3\u30c8":4,"\u30ef\u30fc\u30af\u30d5\u30ed\u30fc":1,"\u30fbmarkdown":6,"\u4e00\u4eba":4,"\u4e00\u65e6":[3,6],"\u4e00\u756a":4,"\u4e00\u89a7":[5,6],"\u4e0a\u8a18":5,"\u4e0a\u90e8":6,"\u4e0b\u90e8":5,"\u4e0d\u8981":4,"\u4e16\u754c":2,"\u4e21\u65b9":1,"\u4e2d\u592e":6,"\u4e2d\u8a18":3,"\u4e88\u5b9a":0,"\u4e88\u7d04":3,"\u4e8b\u524d":0,"\u4e8b\u52d9":0,"\u4eca\u5f8c":[0,4],"\u4ed5\u4e0a":0,"\u4ed5\u4e8b":[0,3],"\u4ee5\u4e0b":[0,3,4,5,6],"\u4ee5\u5916":3,"\u4f11\u61a9":6,"\u4f1d\u3048":[0,4,6],"\u4f1d\u3048\u308b":1,"\u4f1d\u308f\u3089":4,"\u4f1d\u308f\u308a":4,"\u4f1d\u308f\u308b":4,"\u4f4d\u7f6e":5,"\u4f55\u304b":0,"\u4f59\u8a08":3,"\u4f5c\u3063":2,"\u4f5c\u308a":[0,4],"\u4f5c\u308a\u4e0a\u3052":4,"\u4f5c\u308a\u65b9":1,"\u4f5c\u308b":[1,3],"\u4f5c\u308d":[1,7],"\u4f5c\u54c1":4,"\u4f5c\u6210":[0,3,5,6],"\u4f5c\u696d":[2,3,4,6],"\u4f7f\u3048":6,"\u4f7f\u3048\u308b":1,"\u4f7f\u308f\u305a":4,"\u4f9d\u983c":[0,1,3,4,6],"\u4fbf\u5229":[2,5],"\u4fdd\u5b58":6,"\u4fee\u6b63":[1,3,4,7],"\u5148\u9032":0,"\u5165\u308b":2,"\u5165\u529b":[0,4,6],"\u5168\u4f53":4,"\u516c\u958b":[0,1,4,7],"\u5171\u6709":[4,6],"\u5177\u4f53":[1,3],"\u5185\u5bb9":[0,2,4,5,6],"\u518d\u5ea6":[4,5],"\u5206\u304b\u3063":0,"\u5206\u3051":3,"\u5206\u6790":6,"\u5229\u7528":[2,6],"\u5247\u3063":3,"\u52b9\u679c":0,"\u52d5\u304b\u3059":4,"\u5358\u7d14":5,"\u5358\u8a9e":6,"\u5370\u8c61":4,"\u5374\u4e0b":3,"\u539f\u7a3f":2,"\u53d6\u3063":[0,4],"\u53d6\u3089\u308c":3,"\u53d6\u308a":4,"\u53f3\u4e0a":[4,5,6],"\u5404\u884c":4,"\u5404\u914d":2,"\u5408\u308f":4,"\u544a\u77e5":0,"\u5546\u54c1":4,"\u554f\u984c":[0,3,4,5],"\u57f7\u7b46":[1,4,5,7],"\u57f7\u7b46\u4e2d":4,"\u57fa\u672c":3,"\u5834\u5408":[0,1,2,3,6],"\u5909\u3048":[5,6],"\u5909\u308f\u3063":0,"\u5909\u63db":6,"\u5909\u66f4":[2,3,4,5,6],"\u591a\u3044":2,"\u5927\u304d":2,"\u5927\u304d\u304f":0,"\u5927\u304d\u306a":2,"\u5927\u307e\u304b":0,"\u5927\u5207":4,"\u592a\u5b57":6,"\u59cb\u3081":[0,7],"\u59cb\u3081\u308b":0,"\u59ff\u52e2":4,"\u5b58\u5728":0,"\u5b8c\u4e86":[1,3,5,7],"\u5b8c\u6210":[0,2,6],"\u5b9f\u969b":[3,4],"\u5bfe\u5fdc":[1,6],"\u5bfe\u8c61":[1,5],"\u5c0e\u5165":6,"\u5c11\u3005":4,"\u5c11\u3057":2,"\u5c11\u306a\u3044":2,"\u5dee\u3057\u623b\u3059":[1,3],"\u5f0a\u793e":0,"\u5f15\u7528":6,"\u5f53\u65e5":0,"\u5f53\u8a72":3,"\u5f62\u5f0f":[2,4,6],"\u5f79\u5272":0,"\u5f85\u3061":[0,3,5],"\u5f85\u3063":[0,3],"\u5f8c\u307b\u3069":4,"\u5f8c\u8ff0":[0,5],"\u5fc5\u8981":[2,4,5,6],"\u5fd8\u308c":4,"\u601d\u3044":[3,4],"\u601d\u3044\u3064\u3044":3,"\u601d\u3046":4,"\u601d\u3063":0,"\u601d\u308f":0,"\u60a9\u3093":0,"\u60aa\u3044\u70b9":1,"\u60aa\u3044\u70b9\u3070\u304b\u308a":4,"\u60c5\u5831":0,"\u60f3\u5b9a":0,"\u610f\u5473":[0,3,5],"\u610f\u898b":5,"\u611f\u3058":4,"\u611f\u3058\u308b":4,"\u623b\u3059":4,"\u624b\u52d5":[3,5],"\u624b\u623b\u308a":2,"\u6295\u7a3f":[3,5],"\u62c5\u5f53\u8005":0,"\u62db\u304d":4,"\u6301\u3063":4,"\u6307\u6458":1,"\u6349\u3048":5,"\u63b4\u3081":4,"\u63d0\u6848":4,"\u6539\u5584":[4,5],"\u6587\u5b57":6,"\u6587\u7ae0":[0,2,4,5,6],"\u6587\u8a00":2,"\u659c\u3081":6,"\u65b0\u3057\u3044":[0,5],"\u65b0\u898f\u30bf\u30b9\u30af":0,"\u65b9\u6cd5":[4,5,6],"\u65e5\u6642":0,"\u660e\u793a":4,"\u6642\u9593":[0,3,4,6],"\u66f8\u3044":[0,2,3,4,6],"\u66f8\u304b":[0,3],"\u66f8\u304b\u305a":0,"\u66f8\u304d":[0,1,4,6],"\u66f8\u304d\u4e0a\u304c\u3063":4,"\u66f8\u304d\u76f4\u3057":4,"\u66f8\u304d\u7d42\u308f\u3063":4,"\u66f8\u304f":[0,1,2,3,6],"\u66f8\u3051":[0,1,4],"\u66f8\u3051\u308b":[0,4],"\u66f8\u3053\u3046":0,"\u6700\u3082":0,"\u6700\u65b0":4,"\u6700\u7d42":[2,4],"\u6709\u52b9":6,"\u671f\u9650":[0,4],"\u672a\u89e3":5,"\u672c\u5f53":4,"\u672c\u6587":[1,5],"\u6821\u6b63":[2,4,6],"\u697d\u3057\u304f":0,"\u697d\u3057\u307f":0,"\u6a5f\u80fd":6,"\u6b32\u3057\u3044":0,"\u6b8b\u3057":[4,5],"\u6b8b\u3057\u3064\u3064":4,"\u6b8b\u3059":1,"\u6b8b\u305b":4,"\u6b8b\u3063":5,"\u6bb5\u968e":[2,4,6],"\u6bd4\u7387":6,"\u6c17\u3065\u3051":[4,5],"\u6c17\u4ed8\u3051\u308b":5,"\u6c17\u517c":3,"\u6c17\u6301\u3061":1,"\u6c42\u3081\u308b":[4,6],"\u6c7a\u307e\u3063":3,"\u6c7a\u307e\u308c":3,"\u6c7a\u5b9a":0,"\u6ce8\u529b":[2,4],"\u6de1\u767d":0,"\u6df7\u4e71":4,"\u6e1b\u3089":4,"\u6e29\u5ea6":0,"\u6e96\u5099":[4,6],"\u7121\u99c4":[0,2],"\u7169\u96d1":3,"\u7279\u306b":3,"\u7279\u5316":6,"\u7279\u5fb4":6,"\u72b6\u614b":[0,3,5,6],"\u73fe\u5728":6,"\u753b\u50cf":6,"\u753b\u9762":[0,2,3,4,5,6],"\u76f4\u3057":2,"\u76f4\u305b":4,"\u76f8\u624b":4,"\u77e2\u5370":5,"\u77e5\u3063":0,"\u78ba\u8a8d":[4,5,6],"\u79fb\u3057":3,"\u7a4d\u6975":4,"\u7b2c\u4e00\u6b69":0,"\u7ba1\u7406":[0,1,7],"\u7bc4\u56f2":1,"\u7c21\u5358":3,"\u7d0d\u5f97":[4,5],"\u7d20\u6674":4,"\u7d42\u308f":0,"\u7d42\u308f\u3063":[1,6],"\u7d42\u4e86":2,"\u7d50\u679c":6,"\u7d5e\u3089":4,"\u8003\u3048\u308b":0,"\u805e\u304f":6,"\u80cc\u666f":6,"\u81a8\u3089":6,"\u81ea\u52d5":[5,6],"\u826f\u3044":[0,2,3,4,6],"\u826f\u3044\u4f8b":4,"\u826f\u3044\u70b9":1,"\u826f\u304b\u3063":4,"\u826f\u304f":4,"\u884c\u3044":0,"\u884c\u3048":0,"\u884c\u304d":[0,4],"\u884c\u3063":2,"\u8868\u73fe":4,"\u8868\u793a":[0,4,5,6],"\u8868\u8a18":6,"\u8981\u7d20":[0,6],"\u898b\u3064\u3051":4,"\u898b\u3064\u3051\u3088":4,"\u898b\u3084\u3059\u304f":5,"\u898b\u3089\u308c":6,"\u898b\u3089\u308c\u308b":4,"\u898b\u308b":5,"\u898b\u51fa":6,"\u898b\u51fa\u3057":6,"\u89aa\u5207":4,"\u89b3\u70b9":4,"\u89e3\u6c7a":1,"\u8a00\u3044":4,"\u8a00\u8449":0,"\u8a18\u4e8b":[0,1,7],"\u8a18\u5165":5,"\u8a18\u6cd5":6,"\u8a18\u9332":5,"\u8a2d\u5b9a":6,"\u8a66\u3057":6,"\u8a70\u3081":2,"\u8a72\u5f53\u884c":5,"\u8a73\u3057\u304f":[0,3],"\u8a73\u7d30":[2,3,6],"\u8aa4\u5b57":4,"\u8aac\u660e":[0,1,3,4,5],"\u8aad\u307e":4,"\u8aad\u307f":6,"\u8aad\u307f\u624b":4,"\u8aad\u3080":[0,1],"\u8aad\u3093":[0,4,5],"\u8aad\u4e86":6,"\u8aad\u8005":[0,1],"\u8abf\u6574":2,"\u8cbc\u308a\u4ed8\u3051":[2,6],"\u8cfc\u5165":4,"\u8cfc\u8aad":0,"\u8fd1\u3044":0,"\u8fd4\u3055":4,"\u8fd4\u4fe1":1,"\u8fd4\u7b54":5,"\u8ffd\u52a0":[0,4],"\u9001\u4fe1":5,"\u9010\u6b21":[2,6],"\u9032\u3080":4,"\u9032\u3081\u308b":3,"\u9032\u3081\u308c":3,"\u904e\u53bb":5,"\u9055\u3046":0,"\u9055\u3063":5,"\u9078\u3073":4,"\u9078\u3076":3,"\u907f\u3051":0,"\u90e8\u5206":[4,6],"\u90fd\u5ea6":2,"\u914d\u4fe1":3,"\u914d\u7f6e":2,"\u958b\u3044":[4,5],"\u958b\u50ac":0,"\u958b\u59cb":1,"\u9593\u9055\u3044":4,"\u95b2\u89a7":[4,5],"\u9632\u3050":0,"\u96c6\u4e2d":3,"\u9762\u5012":4,"\u98db\u3073\u51fa\u3057":2,"\uff01\u300d":0,"\uff1f\u300d":0,"ng\u4f8b":4,hello:6,html:6,markdown:[2,4,6],ok:[1,2,3],print:6,shodo:[0,3,4],twitter:0,web:[2,3],wordpress:[2,3],wordpross:6},titles:["\u57f7\u7b46\u30bf\u30b9\u30af\u3092\u4f5c\u308d\u3046","Shodo\u3067\u59cb\u3081\u3088\u3046","\u8a18\u4e8b\u3092\u516c\u958b\u3057\u3066\u57f7\u7b46\u30bf\u30b9\u30af\u3092\u5b8c\u4e86\u306b\u3057\u3088\u3046","\u30b9\u30c6\u30fc\u30bf\u30b9\u3092\u7ba1\u7406\u3057\u3088\u3046","\u30ec\u30d3\u30e5\u30fc\u3092\u3057\u3088\u3046","\u30ec\u30d3\u30e5\u30fc\u3092\u3082\u3068\u306b\u8a18\u4e8b\u3092\u4fee\u6b63\u3059\u308b","\u8a18\u4e8b\u3092\u57f7\u7b46\u3057\u3088\u3046","Shodo.ink \u30d8\u30eb\u30d7\u30c9\u30ad\u30e5\u30e1\u30f3\u30c8"],titleterms:{".ink":7,"\u3042\u308b":3,"\u3057\u3088\u3046":[2,4],"\u3059\u3079":5,"\u3059\u308b":[2,4,5,6],"\u305f\u3044":3,"\u305f\u3089":6,"\u3068\u304d":3,"\u3069\u3046":6,"\u306a\u3044":5,"\u306a\u305c":0,"\u306a\u3063":[4,5],"\u3082\u3068":5,"\u3088\u3046":[1,3,5,6],"\u30b3\u30d4\u30fc":2,"\u30b5\u30a4\u30c9\u30d0\u30fc":6,"\u30b9\u30c6\u30fc\u30bf\u30b9":3,"\u30bf\u30b9\u30af":[0,2],"\u30d5\u30a9\u30fc\u30de\u30c3\u30c8":6,"\u30d8\u30eb\u30d7\u30c9\u30ad\u30e5\u30e1\u30f3\u30c8":7,"\u30dd\u30a4\u30f3\u30c8":4,"\u30ec\u30d3\u30e5\u30fc":[3,4,5],"\u30ec\u30d3\u30e5\u30fc\u30b3\u30e1\u30f3\u30c8":[4,5],"\u30ef\u30fc\u30af\u30d5\u30ed\u30fc":3,"\u4e21\u65b9":4,"\u4f1d\u3048\u308b":4,"\u4f5c\u308a\u65b9":0,"\u4f5c\u308b":0,"\u4f5c\u308d":0,"\u4f7f\u3048\u308b":6,"\u4f9d\u983c":5,"\u4fee\u6b63":[2,5],"\u516c\u958b":[2,3],"\u5177\u4f53":4,"\u57f7\u7b46":[0,2,3,6],"\u5834\u5408":[4,5],"\u59cb\u3081":1,"\u5b8c\u4e86":2,"\u5bfe\u5fdc":5,"\u5bfe\u8c61":4,"\u5dee\u3057\u623b\u3059":4,"\u60aa\u3044\u70b9":4,"\u6307\u6458":4,"\u66f8\u304d":3,"\u66f8\u304f":4,"\u66f8\u3051":6,"\u672c\u6587":2,"\u6b8b\u3059":4,"\u6c17\u6301\u3061":4,"\u7ba1\u7406":3,"\u7bc4\u56f2":2,"\u7d42\u308f\u3063":[3,4],"\u826f\u3044\u70b9":4,"\u89e3\u6c7a":5,"\u8a18\u4e8b":[2,3,4,5,6],"\u8aac\u660e":6,"\u8aad\u3080":4,"\u8aad\u8005":4,"\u8fd4\u4fe1":5,"\u958b\u59cb":6,ok:4,shodo:[1,2,6,7]}})

diff --git a/docs/getting-started/manage-status.html b/docs/getting-started/manage-status.html
@@ -173,9 +173,9 @@ Shodoでは執筆タスクのステータスを管理し、ワークフローに
         <tr><td>執筆中</td><td>記事を実際に執筆している状態。</td></tr>
         <tr><td>レビュー待ち</td><td>
             記事が一旦書き終わったのでレビューを待っている状態。<br/>
-            レビュアーはこの記事にレビューコメントをして、執筆中に差し戻すか、公開待ちに進めるかを選ぶ。
+            レビュアーはこの記事にレビューコメントをして、執筆中に差し戻すか、レビューOKに進めるかを選ぶ。
         </td></tr>
-        <tr><td>公開待ち</td><td>記事が書き終わって公開を待っている状態。アサインされている人が、Shodo以外の配信プラットフォーム上に記事を作成するべき状態。</td></tr>
+        <tr><td>レビューOK</td><td>記事が書き終わって公開作業などの残タスク完了を待っている状態。アサインされている人が、Shodo以外の配信プラットフォーム上に記事を作成するべき状態。</td></tr>
         <tr><td>完了</td><td>記事作成、配信プラットフォームでの記事作成が完了した状態。配信プラットフォーム上で予約投稿などができていればShodoの執筆タスクは完了にしても良い</td></tr>
         <tr><td>却下</td><td>当該の記事を書かないとした状態。</td></tr>
     </tbody>
@@ -204,7 +204,7 @@ Shodoでは執筆タスクのステータスを管理し、ワークフローに
 <div class="section" id="id5">
 <h3>記事を公開し終わったときは？<a class="headerlink" href="#id5" title="このヘッドラインへのパーマリンク">¶</a></h3>
 <p>記事を公開し終わったあとは、ステータスを「完了」にします。
-まだWeb上に公開されていない場合でも、ブログサービスやWordPressなどに記事を移したあとは「完了」にして良いでしょう。</p>
+まだWeb上に公開されていない場合でも、残タスクであるブログサービスやWordPressなどに記事を移したあとは「完了」にして良いでしょう。</p>
 <p>記事の完了については後のガイドラインで詳しく説明します。</p>
 </div>
 </div>

diff --git a/docs/getting-started/review-a-post.html b/docs/getting-started/review-a-post.html
@@ -185,13 +185,13 @@
 <div class="section" id="ok">
 <h3>レビューが終わってOKとする場合<a class="headerlink" href="#ok" title="このヘッドラインへのパーマリンク">¶</a></h3>
 <p>記事をじっくり読んでコメントができたあとは、レビューをOKとするか、記事の修正を依頼するかを選びましょう。
-レビューをOKにして記事を公開待ちにする場合、レビュー画面右上の「レビューOKにする」ボタンをクリックしてください。
+レビューをOKにする場合、レビュー画面右上の「レビューOKにする」ボタンをクリックしてください。
 以下のようにレビューをOKにするときのコメントを残す画面が表示されます。</p>
 <p><img alt="レビューOK" src="../_images/review_ok.png" /></p>
-<p>コメントを入力して、「公開待ちに変更」をクリックしてください。</p>
+<p>コメントを入力して、「レビューOKにする」をクリックしてください。</p>
 <p>なにか伝えたいことがある場合は、この画面でコメントを残しつつ、レビューOKとしましょう。
-レビューOKにする場合は、記事の執筆ステータスが「公開待ち」に変更されます。
-執筆タスクの「公開予定日」と「アサイン」を確認して、記事の公開作業をする人にアサインされているか確認しておきましょう。</p>
+レビューOKにする場合は、記事の執筆ステータスが「レビューOK」に変更されます。
+執筆タスクの「期限」と「アサイン」を確認して、記事の公開作業をする人にアサインされているか確認しておきましょう。</p>
 </div>
 <div class="section" id="id4">
 <h3>レビューを差し戻す場合<a class="headerlink" href="#id4" title="このヘッドラインへのパーマリンク">¶</a></h3>

diff --git a/docs/getting-started/create-a-task.html b/docs/getting-started/create-a-task.html
@@ -204,8 +204,8 @@ Shodoにおける <strong>第一歩は「執筆タスク」を作ることです
       <td>執筆タスクの管理をするためのフォルダー。</td>
     </tr>
     <tr>
-      <td>公開予定日</td>
-      <td>記事を公開する予定の日時。<br>プロジェクトのダッシュボード画面などで公開日が近い執筆タスクが表示されます。</td>
+      <td>期限</td>
+      <td>記事を公開・完成する予定の日時。<br>プロジェクトのダッシュボード画面などで期限が近い執筆タスクが表示されます。</td>
     </tr>
   </tbody>
 </table><p>執筆タスクが書き終われば、「新規タスクを追加」をクリックしてください。</p>

diff --git a/docs/getting-started/rewrite-post.html b/docs/getting-started/rewrite-post.html
@@ -212,7 +212,7 @@
 <div class="section" id="id6">
 <h3>再レビューを依頼しない場合は？<a class="headerlink" href="#id6" title="このヘッドラインへのパーマリンク">¶</a></h3>
 <p>とくに再レビューを依頼しない場合は、執筆ステータスを変えずに記事を作成しましょう。
-そのあと執筆タスクの画面から「公開待ち」にステータスを手動で変更することをオススメします。</p>
+そのあと執筆タスク画面から「レビューOK」にステータスを手動で変更することをオススメします。</p>
 </div>
 </div>
 </div>

diff --git a/source/getting-started/manage-status.md b/source/getting-started/manage-status.md
@@ -17,9 +17,9 @@ Shodoの執筆タスクには以下のステータスがあります。
         <tr><td>執筆中</td><td>記事を実際に執筆している状態。</td></tr>
         <tr><td>レビュー待ち</td><td>
             記事が一旦書き終わったのでレビューを待っている状態。<br/>
-            レビュアーはこの記事にレビューコメントをして、執筆中に差し戻すか、公開待ちに進めるかを選ぶ。
+            レビュアーはこの記事にレビューコメントをして、執筆中に差し戻すか、レビューOKに進めるかを選ぶ。
         </td></tr>
-        <tr><td>公開待ち</td><td>記事が書き終わって公開を待っている状態。アサインされている人が、Shodo以外の配信プラットフォーム上に記事を作成するべき状態。</td></tr>
+        <tr><td>レビューOK</td><td>記事が書き終わって公開作業などの残タスク完了を待っている状態。アサインされている人が、Shodo以外の配信プラットフォーム上に記事を作成するべき状態。</td></tr>
         <tr><td>完了</td><td>記事作成、配信プラットフォームでの記事作成が完了した状態。配信プラットフォーム上で予約投稿などができていればShodoの執筆タスクは完了にしても良い</td></tr>
         <tr><td>却下</td><td>当該の記事を書かないとした状態。</td></tr>
     </tbody>
@@ -58,6 +58,6 @@ Shodoの執筆タスクには以下のステータスがあります。
 ### 記事を公開し終わったときは？
 
 記事を公開し終わったあとは、ステータスを「完了」にします。
-まだWeb上に公開されていない場合でも、ブログサービスやWordPressなどに記事を移したあとは「完了」にして良いでしょう。
+まだWeb上に公開されていない場合でも、残タスクであるブログサービスやWordPressなどに記事を移したあとは「完了」にして良いでしょう。
 
 記事の完了については後のガイドラインで詳しく説明します。

diff --git a/source/getting-started/review-a-post.md b/source/getting-started/review-a-post.md
@@ -34,16 +34,16 @@ Shodoで記事をレビューするには、執筆タスク画面から「記事
 ### レビューが終わってOKとする場合
 
 記事をじっくり読んでコメントができたあとは、レビューをOKとするか、記事の修正を依頼するかを選びましょう。
-レビューをOKにして記事を公開待ちにする場合、レビュー画面右上の「レビューOKにする」ボタンをクリックしてください。
+レビューをOKにする場合、レビュー画面右上の「レビューOKにする」ボタンをクリックしてください。
 以下のようにレビューをOKにするときのコメントを残す画面が表示されます。
 
 ![レビューOK](./_img/review_ok.png)
 
-コメントを入力して、「公開待ちに変更」をクリックしてください。
+コメントを入力して、「レビューOKにする」をクリックしてください。
 
 なにか伝えたいことがある場合は、この画面でコメントを残しつつ、レビューOKとしましょう。
-レビューOKにする場合は、記事の執筆ステータスが「公開待ち」に変更されます。
-執筆タスクの「公開予定日」と「アサイン」を確認して、記事の公開作業をする人にアサインされているか確認しておきましょう。
+レビューOKにする場合は、記事の執筆ステータスが「レビューOK」に変更されます。
+執筆タスクの「期限」と「アサイン」を確認して、記事の公開作業をする人にアサインされているか確認しておきましょう。
 
 ### レビューを差し戻す場合
 

diff --git a/source/getting-started/create-a-task.md b/source/getting-started/create-a-task.md
@@ -49,8 +49,8 @@ Shodoにおける **第一歩は「執筆タスク」を作ることです** 。
       <td>執筆タスクの管理をするためのフォルダー。</td>
     </tr>
     <tr>
-      <td>公開予定日</td>
-      <td>記事を公開する予定の日時。<br>プロジェクトのダッシュボード画面などで公開日が近い執筆タスクが表示されます。</td>
+      <td>期限</td>
+      <td>記事を公開・完成する予定の日時。<br>プロジェクトのダッシュボード画面などで期限が近い執筆タスクが表示されます。</td>
     </tr>
   </tbody>
 </table>

diff --git a/source/getting-started/rewrite-post.md b/source/getting-started/rewrite-post.md
@@ -73,4 +73,4 @@
 ### 再レビューを依頼しない場合は？
 
 とくに再レビューを依頼しない場合は、執筆ステータスを変えずに記事を作成しましょう。
-そのあと執筆タスクの画面から「公開待ち」にステータスを手動で変更することをオススメします。
+そのあと執筆タスク画面から「レビューOK」にステータスを手動で変更することをオススメします。
